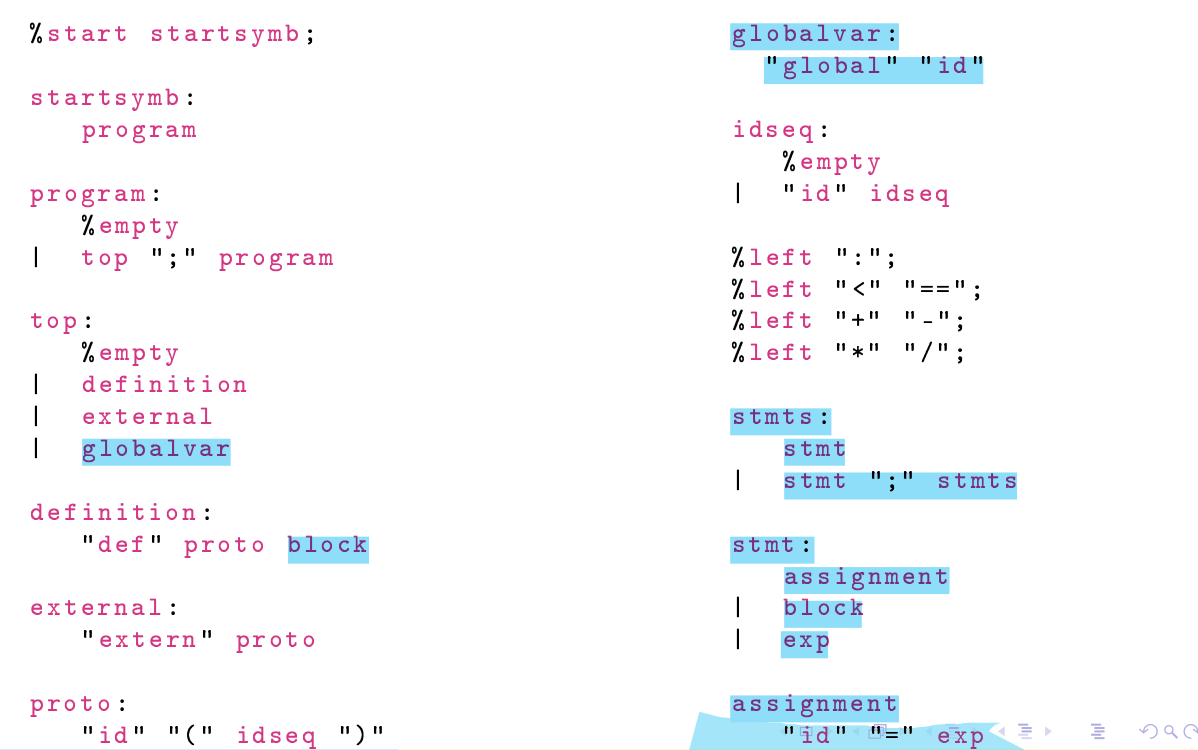
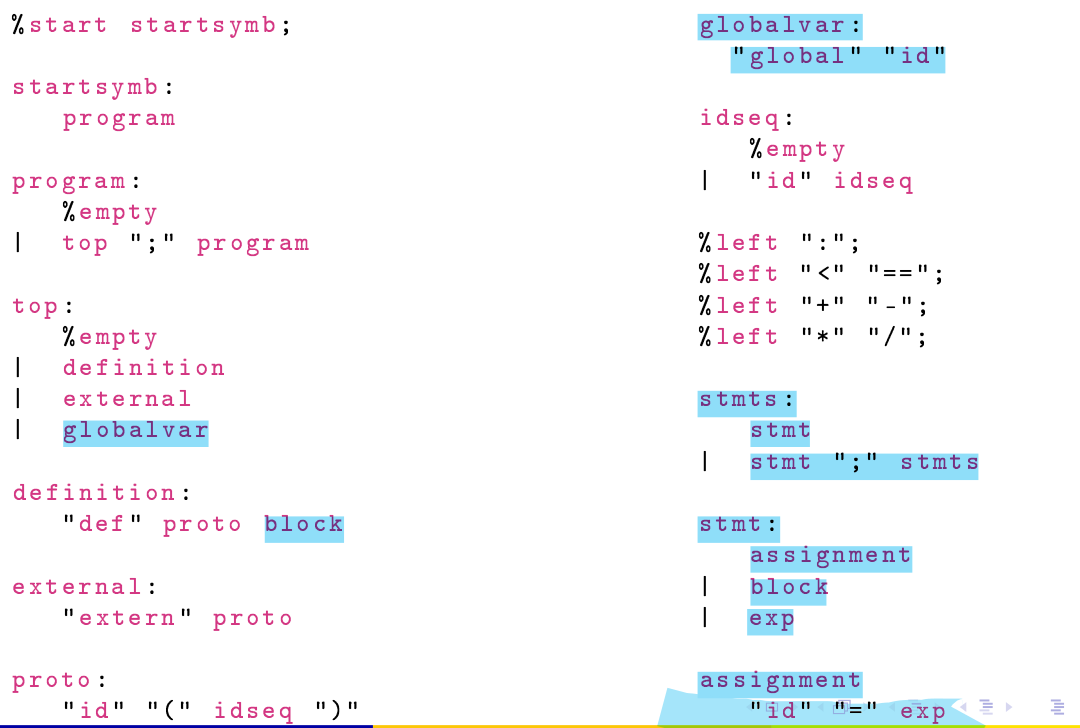
Start to implement Block,Statements,Vardefs,...

diff --git a/Front-End/Progetto_Finale/driver.cpp b/Front-End/Progetto_Finale/driver.cpp
@@ -326,31 +326,37 @@ AllocaInst* BindingAST::codegen(driver& drv) {
 };
 
 
-/*************************Block******************************/
-/*BlockAST::BlockAST(std::vector<InitAST*> Def,std::vector<StmtAST*> Stmts):
-  Def(std::move(Def)), Stmts(std::move(Stmts)) {};
+/***************************Stmts***********************/
+StmtAST::StmtAST(RootAST* first , RootAST* continuation): first(first) , continuation(continuation) {};
 
-BlockAST::BlockAST(std::vector<StmtAST*> Stmts):
-  Stmts(std::move(Stmts)) {};
+
+
+/*************************Block******************************/
+/*
+BlockAST::BlockAST(std::vector<InitAST*> bindings,std::vector<StmtAST*> stmts):
+  Def(std::move(bindings)), stmts(std::move(stmts)) {};
+
+BlockAST::BlockAST(std::vector<StmtAST*> stmts):
+  stmts(std::move(stmts)) {};
 
 Value* BlockAST::codegen(driver& drv){
   // vettore per il salvataggio della symbol table
   std::vector<AllocaInst*> tmp;
-  for (int i=0; i<Def.size();i++ ){
-    AllocaInst *boundval = (AllocaInst*) Def[i]->codegen(drv);
+  for (int i=0; i<bindings.size();i++ ){
+    AllocaInst *boundval = (AllocaInst*) bindings[i]->codegen(drv);
     if (!boundval) return nullptr;
     //salvo il vecchio valore della varaiabile oscurata.
-    tmp.push_back(drv.NamedValues[Def[i]->getName()]);
-    drv.NamedValues[Def[i]->getName()] = boundval;
+    tmp.push_back(drv.NamedValues[bindings[i]->getName()]);
+    drv.NamedValues[bindings[i]->getName()] = boundval;
   }
   Value* blockvalue;
-  for(int i=0; i<Stmts.size(); i++){
-    blockvalue = Stmts[i]->codegen(drv);
+  for(int i=0; i<stmts.size(); i++){
+    blockvalue = stmts[i]->codegen(drv);
     if(!blockvalue) return nullptr;
   }
     
-  for (int i=0; i<Def.size();i++ )
-    drv.NamedValues[Def[i]->getName()] = tmp[i]; //rimetto i valori originali della symb
+  for (int i=0; i<bindings.size();i++ )
+    drv.NamedValues[bindings[i]->getName()] = tmp[i]; //rimetto i valori originali della symb
   return blockvalue;
-};*/
-
+};
+*/

diff --git a/Front-End/Progetto_Finale/driver.hpp b/Front-End/Progetto_Finale/driver.hpp
@@ -169,17 +169,25 @@ class BindingAST : public RootAST{
         std::string& getName();
 };
 
-/*
+
+
+/// StmtAST
+class StmtAST : public SeqAST {  
+  public:
+  StmtAST(RootAST* first , RootAST* continuation);
+};
+
+
 /// BlockAST
 class BlockAST : public ExprAST {
   private:
-    std::vector<InitAST*> Def;
-    std::vector<StmtAST*> Stmts;
+    std::vector<BindingAST*> bindings;
+    std::vector<StmtAST*> stmts;
   public:
-  BlockAST(std::vector<InitAST*> Def,std::vector<StmtAST*> Stmts);
-  BlockAST(std::vector<StmtAST*> Stmts);
+  BlockAST(std::vector<BindingAST*> bindings,std::vector<StmtAST*> stmts);
+  BlockAST(std::vector<StmtAST*> stmts);
   Value *codegen(driver& drv) override;
 };
-*/
+
 
 #endif // ! DRIVER_HH

diff --git a/Front-End/Progetto_Finale/README.md b/Front-End/Progetto_Finale/README.md
@@ -34,8 +34,6 @@ Abstract Syntax Tree scheme:
 
 New features from the starting grammar are <span style="color:#57DDFF">highlighted</span>.
 
-<span style="color:red"> TODO -> Evidenziare Binding,Vardefs,Expif,CondExp... </span>
-
 <table>
     <tr>
         <td> <img src="img/Grammar_liv1_1.png" alt="liv1_1" width=90%></img> </td>
@@ -45,14 +43,45 @@ New features from the starting grammar are <span style="color:#57DDFF">highlight
 
 Feature:
 
-1. Binding.
-2. Block.
-3. Statement and Statements.
-4. Assignment.
+1. Block.
+2. Statements.
+3. Vardefs.
+4. Assignments
 5. Init of local variable.
 6. Init of global variable.
     
 <br>
+
+#### Block,Statements and Vardefs (step1_1)
+
+These are the first feature we are going to implement. Because we need a base for Bindings,Assignments,If.
+<br>
+Summary of each steps:
+
+1. Add rules on grammar(</b>parser.yy<b>)
+
+```c++
+
+definition:
+  "def" proto block   { $$ = new FunctionAST($2,$3); $2->noemit(); };  // <----- change exp with block
+
+...
+
+```
+
+
+
+
+
+
+
+
+
+
+
+
+
+
 
 #### Binding
 
